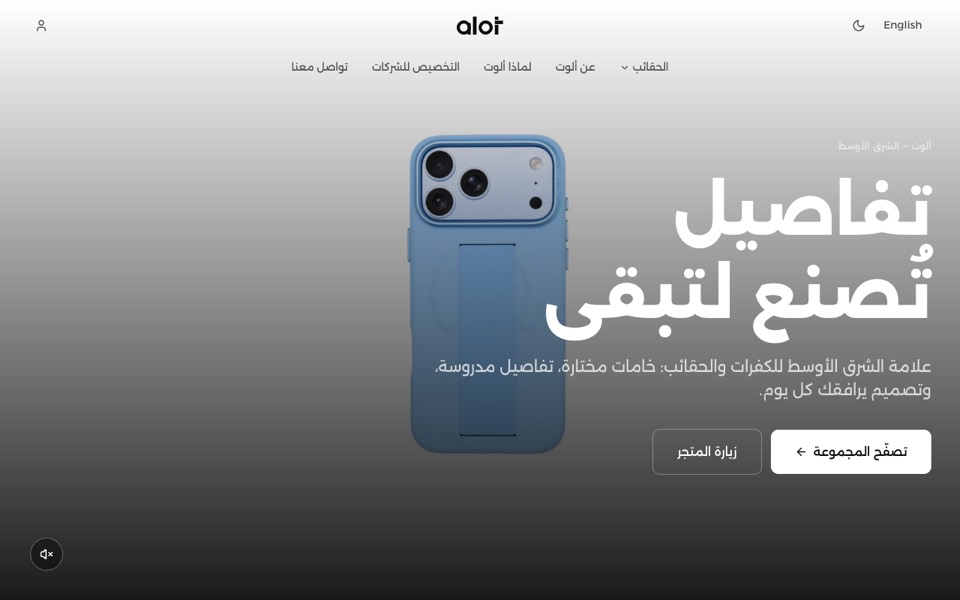
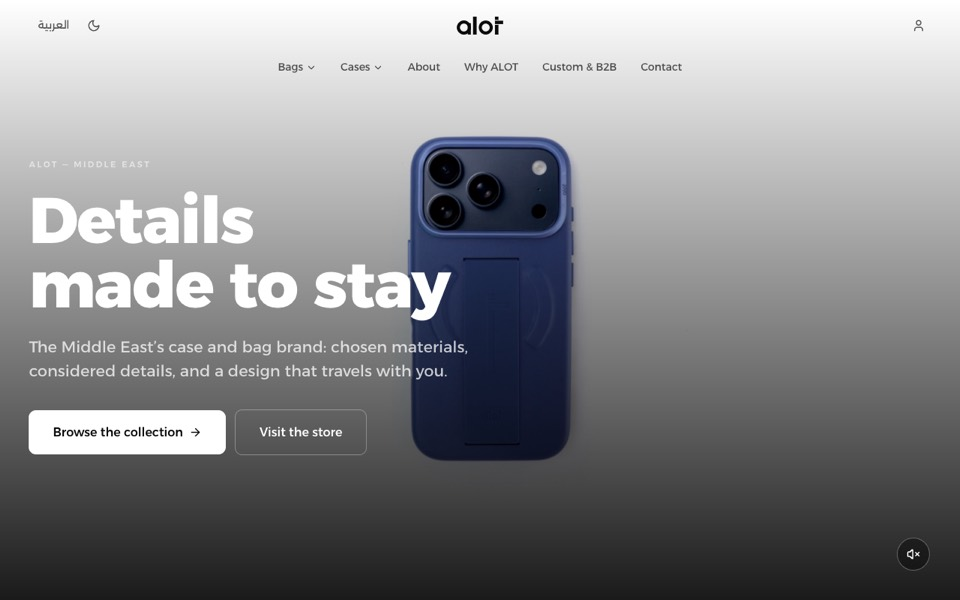
Show Alot's English site on its card

diff --git a/index.html b/index.html
@@ -1246,7 +1246,7 @@ button,input,textarea{font:inherit;color:inherit}
           <h3 data-i18n="p10_t">Alot — Covers &amp; Bags Store</h3>
           <p data-i18n="p10_d">A storefront for a Middle East brand of phone covers and bags: a video hero, product collections and an Arabic/English interface, backed by Firebase.</p>
           <div class="tags"><span class="tag hl">React</span><span class="tag">Firebase</span><span class="tag">AR / EN</span></div>
-          <a class="proj-link" href="https://alot-mea.com/" target="_blank" rel="noopener">
+          <a class="proj-link" href="https://alot-mea.com/en" target="_blank" rel="noopener">
             <span data-i18n="visit">Visit the site</span>
             <svg class="svg" aria-hidden="true"><use href="#i-arrow-right"/></svg>
           </a>
